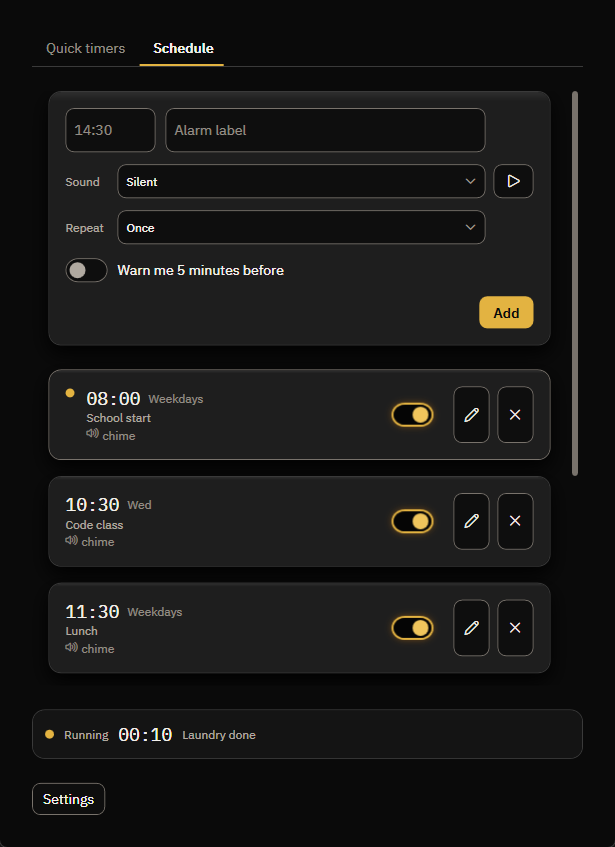
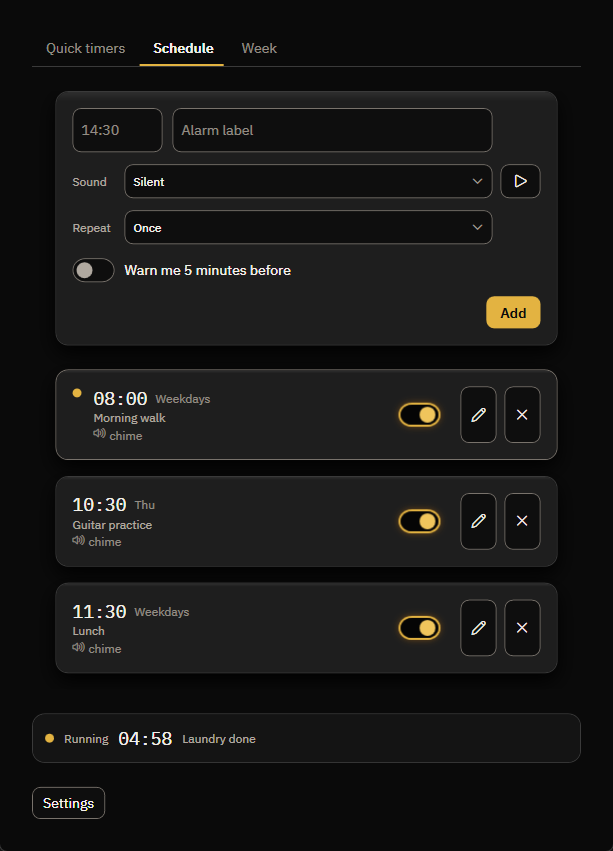
docs: re-shoot the screenshots from a fixture schedule
The Week, Schedule and Edit-alarm shots were taken against my own live
data, so the README published my real weekly routine — the days, hours
and labels of everything I have on. Replaced all three with captures of
a fictional demo week held in a scratch AppData, which still shows every
behaviour the surrounding text describes: gutter times, a mixed row
where the cells print their own time, the hidden weekend, the running
timer strip, and a per-alarm warning toggle.

The Schedule shot was also stale: it predated the Week tab and showed
only two tabs.

diff --git a/README.md b/README.md
@@ -58,7 +58,7 @@ Launching Tidsro opens its window — it remembers where you last placed it and 
 The **Schedule** is its own tab next to Quick timers, and a compact strip below the tab content shows whatever is counting down, whichever tab you're on. Type a time — `14:30`, or shorthand like `9`, `930`, or `1430` (24-hour) — an optional label, choose a sound, set **Repeat** (Once, or a weekday set), and click **Add** (or press **Enter**). The alarm is saved immediately. Turn on **Warn me 5 minutes before** for a quiet heads-up ahead of the alarm.
 
 <p align="center">
-  <img src="docs/screenshots/schedule.png" alt="The Schedule tab: a form for adding an alarm (time, label, sound, repeat, and a pre-alarm warning toggle), three weekday alarms below with gold on/off toggles, and a slim strip along the bottom showing a timer still counting down on the other tab (Running 00:10, Laundry done)." width="560"><br>
+  <img src="docs/screenshots/schedule.png" alt="The Schedule tab: a form for adding an alarm (time, label, sound, repeat, and a pre-alarm warning toggle), three alarms below with gold on/off toggles — 08:00 on weekdays, 10:30 on Thursday, 11:30 on weekdays — and a slim strip along the bottom showing a timer still counting down on the other tab (Running 04:58, Laundry done)." width="560"><br>
   <em>The Schedule — and the strip along the bottom keeping a running timer in view.</em>
 </p>
 
@@ -70,7 +70,7 @@ The **Schedule** is its own tab next to Quick timers, and a compact strip below 
 - When an alarm fires, the same quiet bottom-right card appears, with **Snooze +5** (re-arms it 5 minutes later in the Schedule) and **Dismiss**.
 
 <p align="center">
-  <img src="docs/screenshots/alarm-dialog.png" alt="The Edit alarm dialog: an 08:00 alarm labelled School start, with a sound picker on Piano jingle, repeat set to Weekdays, the 5-minute pre-alarm warning switched on with a gold toggle, and Save and Cancel buttons." width="344"><br>
+  <img src="docs/screenshots/alarm-dialog.png" alt="The Edit alarm dialog: an 08:00 alarm labelled Morning walk, with a sound picker on Piano jingle, repeat set to Weekdays, the 5-minute pre-alarm warning switched on with a gold toggle, and Save and Cancel buttons." width="344"><br>
   <em>Editing an alarm — per-alarm sound, repeat, and the optional 5-minute warning.</em>
 </p>
 
@@ -79,7 +79,7 @@ The **Schedule** is its own tab next to Quick timers, and a compact strip below 
 The **Week** tab lays your repeating alarms out as a timetable — a day-by-day agenda on a narrow window, becoming a grid once there is room for one. It lists only the times you have something on, so a free afternoon costs no space, and each row states its own time: an alarm at 12:15 says 12:15 rather than the half hour it falls in. Saturday and Sunday get columns only when something falls on them, or when today is one of them; otherwise the week stays five columns wide and says so beneath. Today is marked in both views. The tab is read-only — alarms are added and edited on the Schedule.
 
 <p align="center">
-  <img src="docs/screenshots/week.png" alt="The Week tab: five columns from Monday to Friday with Thursday marked as today by a gold dot and gold heading, seven rows of repeating alarms from 08:00 School start down to 15:30 Wind down with their times in a left-hand gutter, and a muted line beneath reading Weekend - nothing scheduled." width="560"><br>
+  <img src="docs/screenshots/week.png" alt="The Week tab: five columns from Monday to Friday with Thursday marked as today by a gold dot and gold heading, seven rows of repeating alarms from 07:30 Morning walk down to 17:30 Wrap up with their times in a left-hand gutter, a 12:00 row where the Tuesday and Thursday cells print their own 12:15, and a muted line beneath reading Weekend - nothing scheduled." width="560"><br>
   <em>The Week tab — only the times you use, and no columns spent on a free weekend.</em>
 </p>
 
